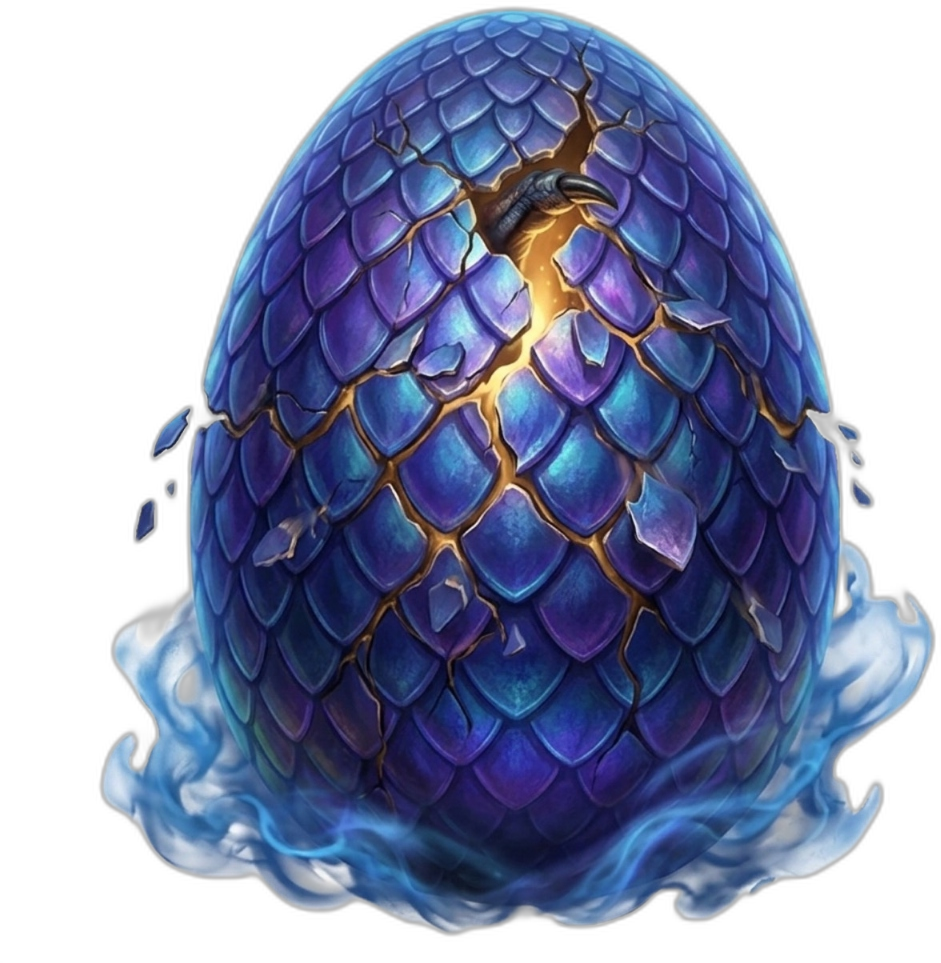
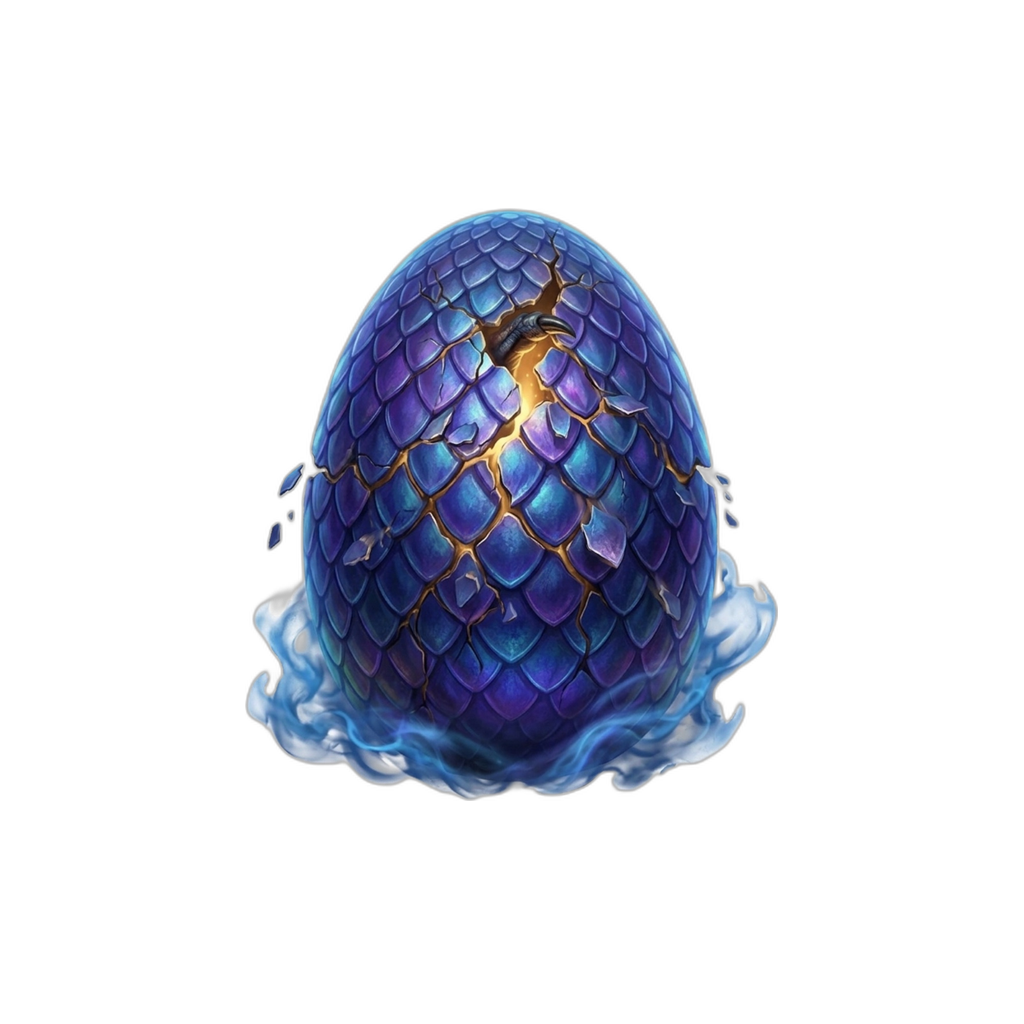
v117: pad stage 2 egg and nest images with transparent space so they exactly match stage 1 dimensions and positioning, ensuring zero size variance between stages

diff --git a/index.html b/index.html
@@ -16,7 +16,7 @@
   <link rel="preconnect" href="https://fonts.googleapis.com">
   <link rel="preconnect" href="https://fonts.gstatic.com" crossorigin>
   <link href="https://fonts.googleapis.com/css2?family=Orbitron:wght@400;700;900&family=Noto+Sans+JP:wght@300;400;500;700&display=swap" rel="stylesheet">
-  <link rel="stylesheet" href="css/index.css?v=116">
+  <link rel="stylesheet" href="css/index.css?v=117">
 </head>
 <body>
   <!-- プレイヤー登録モーダル -->
@@ -373,11 +373,11 @@
   <!-- BGMプレイヤー用 -->
   <div id="youtubePlayer" style="position: absolute; width: 1px; height: 1px; top: -9999px; left: -9999px; opacity: 0; pointer-events: none;"></div>
 
-  <script src="js/main.js?v=116"></script>
+  <script src="js/main.js?v=117"></script>
   <!-- Google API Scripts -->
   <script async defer src="https://apis.google.com/js/api.js" onload="gapiLoaded()"></script>
   <script async defer src="https://accounts.google.com/gsi/client" onload="gisLoaded()"></script>
   <script src="https://www.youtube.com/iframe_api"></script>
-  <script src="js/google_api.js?v=116"></script>
+  <script src="js/google_api.js?v=117"></script>
 </body>
 </html>

diff --git a/js/main.js b/js/main.js
@@ -1154,12 +1154,23 @@ function updateDragonNest(stageIndex) {
   const img = document.getElementById('dragonImage');
   if (!nest || !img) return;
   
-  // どの段階でも藁は非表示にし、卵はデフォルトサイズ（100%）にする
-  nest.style.display = 'none';
+  // デフォルトサイズにリセット（パディング付き画像でサイズを統一したため）
   img.style.width = '100%';
   img.style.height = '100%';
   img.style.top = '8px'; // CSSのデフォルト値
   img.style.left = '0';
+  
+  nest.style.width = '100%';
+  nest.style.height = '100%';
+  nest.style.top = '8px';
+  nest.style.left = '0';
+
+  if (stageIndex === 1) { // 第二段階（覚醒の卵）の時は巣を表示
+    nest.src = 'assets/dragons/stage2_nest_padded.png';
+    nest.style.display = 'block';
+  } else {
+    nest.style.display = 'none';
+  }
 }
 
 // 卵専用アニメーション

diff --git a/pad_stage2.py b/pad_stage2.py
@@ -1,0 +1,70 @@
+from PIL import Image
+
+# 1. Get Stage 1 dimensions and bounding box
+img1 = Image.open('assets/dragons/stage1_egg.png').convert('RGBA')
+w1, h1 = img1.width, img1.height
+data = img1.getdata()
+min_y, max_y, min_x, max_x = h1, 0, w1, 0
+for y in range(h1):
+    for x in range(w1):
+        if data[y*w1+x][3] > 10:
+            min_y, max_y = min(min_y, y), max(max_y, y)
+            min_x, max_x = min(min_x, x), max(max_x, x)
+
+egg1_w = max_x - min_x
+egg1_h = max_y - min_y
+print(f"Stage 1 Canvas: {w1}x{h1}, Egg Size: {egg1_w}x{egg1_h}, Center: {(min_x+max_x)//2}, {(min_y+max_y)//2}")
+
+# 2. Resize the cracked egg to exactly match the Stage 1 egg's size
+img2 = Image.open('assets/dragons/stage3_new.jpg').convert('RGBA')
+from rembg import remove
+img2_nobg = remove(img2)
+
+# crop the removed bg image
+data2 = img2_nobg.getdata()
+min_y2, max_y2, min_x2, max_x2 = img2_nobg.height, 0, img2_nobg.width, 0
+for y in range(img2_nobg.height):
+    for x in range(img2_nobg.width):
+        if data2[y*img2_nobg.width+x][3] > 10:
+            min_y2, max_y2 = min(min_y2, y), max(max_y2, y)
+            min_x2, max_x2 = min(min_x2, x), max(max_x2, x)
+
+img2_cropped = img2_nobg.crop((min_x2, min_y2, max_x2, max_y2))
+
+# scale to match stage 1
+# Actually, cracked egg has a wider base due to aura. Let's scale by height to match egg1_h
+scale = egg1_h / float(max_y2 - min_y2)
+new_w = int((max_x2 - min_x2) * scale)
+img2_resized = img2_cropped.resize((new_w, egg1_h), Image.Resampling.LANCZOS)
+
+# Create 1024x1024 canvas and paste
+out_img = Image.new('RGBA', (w1, h1), (0,0,0,0))
+# center horizontally, align vertically
+paste_x = (w1 - new_w) // 2
+paste_y = min_y
+out_img.paste(img2_resized, (paste_x, paste_y))
+out_img.save('assets/dragons/stage2_egg_only.png')
+print("Saved scaled stage2_egg_only.png")
+
+# 3. Do the same for the nest
+try:
+    nest_orig = Image.open('C:/Users/User/.gemini/antigravity/brain/b9fa9caf-1a4e-408d-9ee3-34abb61094e0/media__1779586209551.png').convert('RGBA') # Original nest
+    # the nest should sit at the bottom of the egg
+    # Let's just scale it relative to the canvas. 
+    # Or just use the already cropped stage2_nest.png and resize it?
+    nest_cropped = Image.open('assets/dragons/stage2_nest.png').convert('RGBA')
+    # scale nest
+    nest_scale = new_w / float(nest_cropped.width) * 1.5 # make it a bit wider than the egg
+    nest_new_w = int(nest_cropped.width * nest_scale)
+    nest_new_h = int(nest_cropped.height * nest_scale)
+    nest_resized = nest_cropped.resize((nest_new_w, nest_new_h), Image.Resampling.LANCZOS)
+    
+    out_nest = Image.new('RGBA', (w1, h1), (0,0,0,0))
+    nest_x = (w1 - nest_new_w) // 2
+    # position it at the bottom of the egg
+    nest_y = paste_y + egg1_h - int(nest_new_h * 0.7) 
+    out_nest.paste(nest_resized, (nest_x, nest_y))
+    out_nest.save('assets/dragons/stage2_nest_padded.png')
+    print("Saved scaled nest")
+except Exception as e:
+    print("Error with nest:", e)
